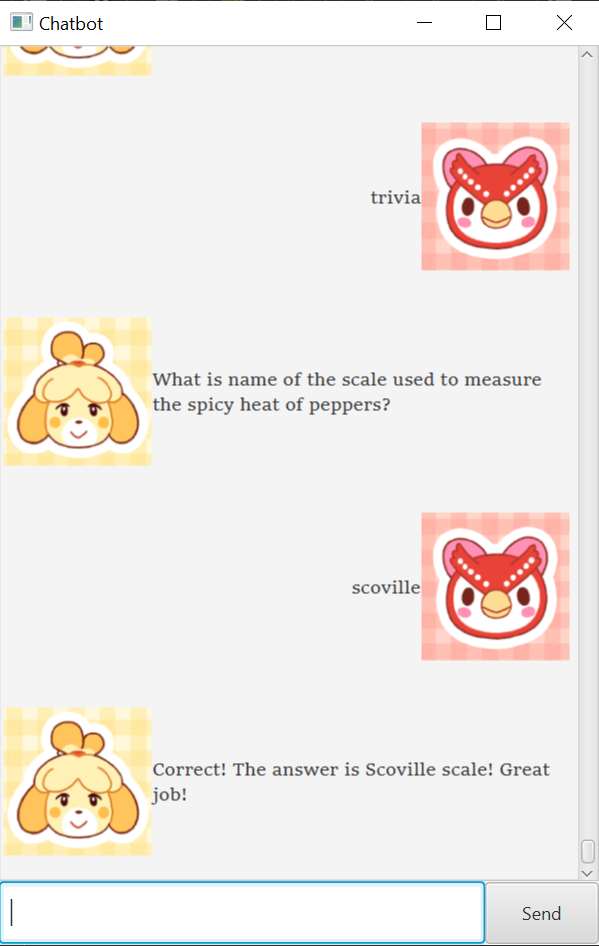
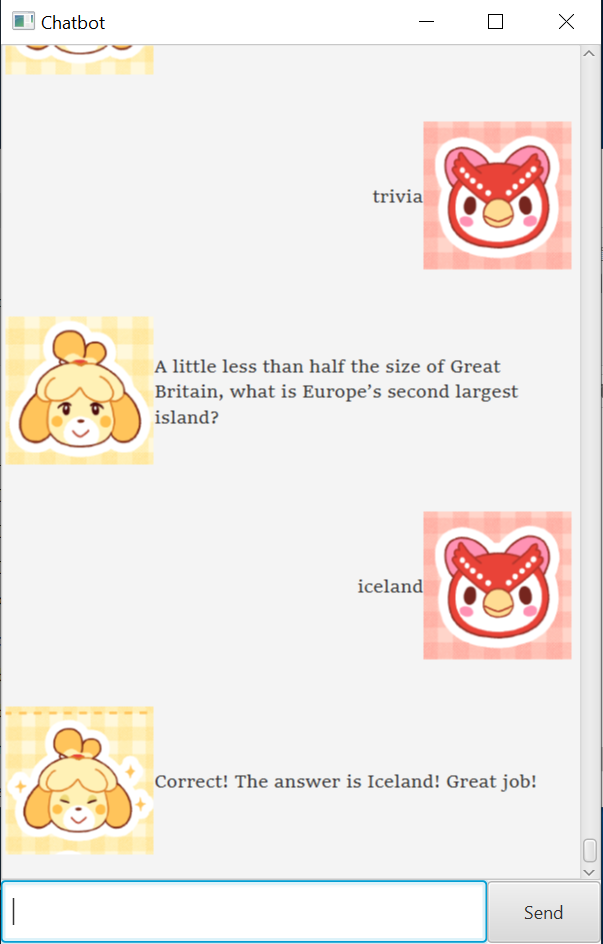
Add expressions

diff --git a/src/main/java/seedu/duke/Ui.java b/src/main/java/seedu/duke/Ui.java
@@ -24,6 +24,7 @@ public class Ui {
 
     /**
      * Prints the intro when starting the application.
+     * @return
      */
     public static String intro() {
         String logo = "Hello! \nIs there something I can help you with today?";
@@ -50,8 +51,9 @@ public class Ui {
      * Prints error message.
      * @param str String containing error message.
      */
-    public static void showError(String str) {
-        System.out.println(format(str));
+    public static ChatDisplay showError(String str) {
+        ChatDisplay result = new ChatDisplay(str, ChatDisplay.Expression.CONFUSED);
+        return result;
     }
 
     /**
@@ -74,9 +76,10 @@ public class Ui {
      * @param str String representing Task done.
      * @return
      */
-    public static String doneLine(String str) {
+    public static ChatDisplay doneLine(String str) {
         String message = "Nice! I've marked this task as done:\n " + str;
-        return message;
+        ChatDisplay result = new ChatDisplay(message, ChatDisplay.Expression.SINGING);
+        return result;
     }
 
     /**
@@ -85,9 +88,10 @@ public class Ui {
      * @param size integer representing the current size of the TaskList.
      * @return
      */
-    public static String deleteLine(String str, int size) {
-        String result = "Noted. I've removed this task: \n   "
-                + str + "\n Now you have " + size + " tasks in the list.";
+    public static ChatDisplay deleteLine(String str, int size) {
+        String delete = "You've finished! Good job! I'll remove this task for you: \n   "
+                + str + "\nNow you have " + size + " tasks in the list.";
+        ChatDisplay result = new ChatDisplay(delete, ChatDisplay.Expression.SPARKLY);
         return result;
     }
 
@@ -97,19 +101,21 @@ public class Ui {
      * @param size integer representing the current size of the TaskList.
      * @return
      */
-    public static String addLine(String str, int size) {
-        String message = "Got it. I've added this task:\n " + str
+    public static ChatDisplay addLine(String str, int size) {
+        String message = "Alright! I'll add this task for you:\n " + str
                 + "\nNow you have " + size + " tasks in the list.";
-        return message;
+        ChatDisplay result = new ChatDisplay(message, ChatDisplay.Expression.SINGING);
+        return result;
     }
 
     /**
      * Prints exit message.
      * @return
      */
-    public static String exitLine() {
+    public static ChatDisplay exitLine() {
         String message = "Bye. Hope to see you again soon!";
-        return message;
+        ChatDisplay result = new ChatDisplay(message, ChatDisplay.Expression.SINGING);
+        return result;
     }
 
     /**
@@ -117,7 +123,7 @@ public class Ui {
      * @param tl Current TaskList.
      * @return String containing list message.
      */
-    public static String list(TaskList tl) {
+    public static ChatDisplay list(TaskList tl) {
         String message = "";
         if (tl.list.size() != 0) {
             message += "Here are the tasks in your list:\n";
@@ -127,7 +133,8 @@ public class Ui {
         } else {
             message = "You have no tasks in your list.";
         }
-        return message;
+        ChatDisplay result = new ChatDisplay(message, ChatDisplay.Expression.NEUTRAL);
+        return result;
     }
 
     /**
@@ -135,36 +142,45 @@ public class Ui {
      * @param tl taskList
      * @return String containing matching list message.
      */
-    public static String listMatching(ArrayList<Task> tl) {
-        String result = "";
+    public static ChatDisplay listMatching(ArrayList<Task> tl) {
+        String message = "";
         if (tl.size() != 0) {
-            result += "Here are the matching tasks in your list:\n";
+            message += "Here are the matching tasks in your list:\n";
             for (int i = 1; i <= tl.size(); i++) {
-                result += " " + i + ". " + tl.get(i - 1).toString() + "\n";
+                message += " " + i + ". " + tl.get(i - 1).toString() + "\n";
             }
         } else {
-            result = "You have no matching tasks in your list.";
+            message = "You have no matching tasks in your list.";
         }
+        ChatDisplay result = new ChatDisplay(message, ChatDisplay.Expression.NEUTRAL);
         return result;
     }
 
-    public static String editMessage(String original, String newString) {
-        String result = "You have successfully edited the task:\n" + original
+    public static ChatDisplay editMessage(String original, String newString) {
+        String message = "You have successfully edited the task:\n" + original
                 + "\nto:\n" + newString;
+        ChatDisplay result = new ChatDisplay(message, ChatDisplay.Expression.NEUTRAL);
         return result;
     }
 
-    public static String correctAnswer() {
-        String result = "Correct! The answer is " + answer + "! Great job!";
+    public static ChatDisplay correctAnswer() {
+        String message = "Correct! The answer is " + answer + "! Great job!";
+        ChatDisplay result = new ChatDisplay(message, ChatDisplay.Expression.SPARKLY);
         return result;
     }
 
-    public static String wrongAnswer() {
-        String result = "Sorry, the answer is " + answer + ". Better luck next time!";
+    public static ChatDisplay wrongAnswer() {
+        String message = "Sorry, the answer is " + answer + ". Better luck next time!";
+        ChatDisplay result = new ChatDisplay(message, ChatDisplay.Expression.CONCERNED);
         return result;
     }
 
     public static String getAnswer() {
         return answer;
+    }
+
+    public ChatDisplay questionMessage(String question) {
+        ChatDisplay result = new ChatDisplay(question, ChatDisplay.Expression.NEUTRAL);
+        return result;
     }
 }

diff --git a/src/main/java/seedu/duke/MainWindow.java b/src/main/java/seedu/duke/MainWindow.java
@@ -26,42 +26,6 @@ public class MainWindow extends AnchorPane {
     private Image userImage = new Image(this.getClass().getResourceAsStream("/images/DaUser.png"));
     private Image dukeImage = new Image(this.getClass().getResourceAsStream("/images/isabelle_neutral.png"));
 
-    private static String expression;
-
-    public enum Expression {
-        NEUTRAL, CONFUSED, SAD, CONCERNED, SPARKLY, SHOCKED, STRESSED;
-    }
-
-    public static void setExpression(String str) {
-        expression = str;
-    }
-
-    public void setImage(Expression e) {
-        switch (e) {
-            case NEUTRAL:
-                dukeImage = new Image(this.getClass().getResourceAsStream("/images/isabelle_neutral.png"));
-                break;
-            case SAD:
-                dukeImage = new Image(this.getClass().getResourceAsStream("/images/isabelle_sad.png"));
-                break;
-            case SHOCKED:
-                dukeImage = new Image(this.getClass().getResourceAsStream("/images/isabelle_shocked.png"));
-                break;
-            case SPARKLY:
-                dukeImage = new Image(this.getClass().getResourceAsStream("/images/isabelle_sparkly.png"));
-                break;
-            case CONFUSED:
-                dukeImage = new Image(this.getClass().getResourceAsStream("/images/isabelle_confused.png"));
-                break;
-            case STRESSED:
-                dukeImage = new Image(this.getClass().getResourceAsStream("/images/isabelle_stressed.png"));
-                break;
-            case CONCERNED:
-                dukeImage = new Image(this.getClass().getResourceAsStream("/images/isabelle_concerned.png"));
-                break;
-        }
-    }
-
     @FXML
     public void initialize() {
         scrollPane.vvalueProperty().bind(dialogContainer.heightProperty());
@@ -81,7 +45,9 @@ public class MainWindow extends AnchorPane {
     @FXML
     private void handleUserInput() {
         String input = userInput.getText();
-        String response = duke.getResponse(input);
+        ChatDisplay chat = duke.getResponse(input);
+        String response = chat.getText();
+        Image dukeImage = chat.getDisplayPicture();
         dialogContainer.getChildren().addAll(
                 DialogBox.getUserDialog(input, userImage),
                 DialogBox.getDukeDialog(response, dukeImage)

diff --git a/src/main/java/seedu/duke/ChatDisplay.java b/src/main/java/seedu/duke/ChatDisplay.java
@@ -1,0 +1,62 @@
+package seedu.duke;
+
+import javafx.scene.image.Image;
+
+/**
+ * Class combining chat text and display picture as an object.
+ */
+public class ChatDisplay {
+    private static Image displayPicture;
+    private static String text;
+
+    public ChatDisplay(String str, Expression e) {
+        text = str;
+        displayPicture = retrieveExpression(e);
+    }
+
+    public Image getDisplayPicture() {
+        return displayPicture;
+    }
+
+    public String getText() {
+        return text;
+    }
+
+    public enum Expression {
+        NEUTRAL, CONFUSED, SAD, CONCERNED, SPARKLY, SHOCKED, STRESSED, SINGING;
+    }
+
+    public Image retrieveExpression(Expression e) {
+        Image result;
+        switch (e) {
+            case NEUTRAL:
+                result = new Image(this.getClass().getResourceAsStream("/images/isabelle_neutral.png"));
+                break;
+            case SAD:
+                result = new Image(this.getClass().getResourceAsStream("/images/isabelle_sad.png"));
+                break;
+            case SHOCKED:
+                result = new Image(this.getClass().getResourceAsStream("/images/isabelle_shocked.png"));
+                break;
+            case SPARKLY:
+                result = new Image(this.getClass().getResourceAsStream("/images/isabelle_sparkly.png"));
+                break;
+            case CONFUSED:
+                result = new Image(this.getClass().getResourceAsStream("/images/isabelle_confused.png"));
+                break;
+            case STRESSED:
+                result = new Image(this.getClass().getResourceAsStream("/images/isabelle_stressed.png"));
+                break;
+            case CONCERNED:
+                result = new Image(this.getClass().getResourceAsStream("/images/isabelle_concerned.png"));
+                break;
+            case SINGING:
+                result = new Image(this.getClass().getResourceAsStream("/images/isabelle_singing.png"));
+                break;
+            default:
+                result = new Image(this.getClass().getResourceAsStream("/images/isabelle_neutral.png"));
+                break;
+        }
+        return result;
+    }
+}

diff --git a/src/main/java/seedu/duke/Duke.java b/src/main/java/seedu/duke/Duke.java
@@ -26,7 +26,6 @@ public class Duke extends Application {
     private Scene scene;
 
     private Image user = new Image(this.getClass().getResourceAsStream("/images/DaUser.png"));
-    private Image duke = new Image(this.getClass().getResourceAsStream("/images/isabelle_neutral.png"));
 
     private static Storage storage;
     private static TaskList tasks;
@@ -161,21 +160,23 @@ public class Duke extends Application {
      */
     private void handleUserInput() {
         String userText = userInput.getText();
-        String dukeText = getResponse(userInput.getText());
+        ChatDisplay response = getResponse(userInput.getText());
+        String dukeText = response.getText();
+        Image dukeImage = response.getDisplayPicture();
         dialogContainer.getChildren().addAll(
                 DialogBox.getUserDialog(userText, user),
-                DialogBox.getDukeDialog(dukeText, duke)
+                DialogBox.getDukeDialog(dukeText, dukeImage)
         );
         userInput.clear();
     }
 
-    String getResponse(String input) {
+    ChatDisplay getResponse(String input) {
         try {
             Command c = Parser.parse(input);
             isExit = c.isExit();
             return c.execute(tasks, ui, storage);
         } catch (DukeException e) {
-            return e.getMessage();
+            return ui.showError(e.getMessage());
         }
     }
 }

diff --git a/src/main/java/seedu/duke/Parser.java b/src/main/java/seedu/duke/Parser.java
@@ -72,13 +72,13 @@ public class Parser {
                 throw new DukeException("Please specify a task.");
             } else if (!first.equals("bye") && !first.equals("list") && !first.equals("trivia") && !isTriviaAnswer) {
                 //if it is not a single-worded valid input
-                throw new DukeException("I'm sorry, but I don't know what that means :-(");
+                throw new DukeException("I'm sorry, but I don't know what that means.");
             }
         } else {
             //if it is an invalid input containing multiple words
             if (!task && !first.equals("done") && !first.equals("delete") && !first.equals("find")
                     && !first.equals("edit") && !isTriviaAnswer) {
-                throw new DukeException("I'm sorry, but I don't know what that means :-(");
+                throw new DukeException("I'm sorry, but I don't know what that means.");
             } else if ((first.equals("event") && !input.contains("/at"))
                     || (first.equals("deadline") && !input.contains("/by"))) {
                 //if event or deadline do not have details

diff --git a/src/main/java/seedu/duke/TriviaCommand.java b/src/main/java/seedu/duke/TriviaCommand.java
@@ -11,7 +11,7 @@ public class TriviaCommand extends Command {
     protected static String url = "https://trivia.fyi/random-trivia-questions/";
 
     @Override
-    public String execute(TaskList t, Ui u, Storage s) {
+    public ChatDisplay execute(TaskList t, Ui u, Storage s) {
         String result = "";
         try {
             Document doc = Jsoup.connect(url).timeout(0).get();
@@ -33,6 +33,6 @@ public class TriviaCommand extends Command {
             e.printStackTrace();
         }
 
-        return result;
+        return u.questionMessage(result);
     }
 }

diff --git a/src/main/java/seedu/duke/AnswerCommand.java b/src/main/java/seedu/duke/AnswerCommand.java
@@ -8,7 +8,7 @@ public class AnswerCommand extends Command {
     }
 
     @Override
-    public String execute(TaskList t, Ui u, Storage s) {
+    public ChatDisplay execute(TaskList t, Ui u, Storage s) {
         String correctAnswer = u.getAnswer();
         if ((answer.toLowerCase().equals(correctAnswer.toLowerCase()) || answer.toLowerCase().contains(correctAnswer.toLowerCase())
             || correctAnswer.toLowerCase().contains(answer.toLowerCase())) && !answer.equals("")) {

diff --git a/src/main/java/seedu/duke/FindCommand.java b/src/main/java/seedu/duke/FindCommand.java
@@ -19,7 +19,7 @@ public class FindCommand extends Command {
      * @return a String containing the find message.
      */
     @Override
-    public String execute(TaskList t, Ui u, Storage s) {
+    public ChatDisplay execute(TaskList t, Ui u, Storage s) {
         ArrayList<Task> list = new ArrayList<>();
         for (Task task: t.list) {
             String title = task.description;

diff --git a/src/main/java/seedu/duke/AddCommand.java b/src/main/java/seedu/duke/AddCommand.java
@@ -30,7 +30,7 @@ public class AddCommand extends Command {
      * @return a String representing the add message
      */
     @Override
-    public String execute(TaskList t, Ui u, Storage s) {
+    public ChatDisplay execute(TaskList t, Ui u, Storage s) {
         Task task = createNewTask();
         int size = t.list.size();
         t.list.add(task);

diff --git a/src/main/java/seedu/duke/DeleteCommand.java b/src/main/java/seedu/duke/DeleteCommand.java
@@ -23,7 +23,7 @@ public class DeleteCommand extends Command {
      * @return a String containing the delete message.
      */
     @Override
-    public String execute(TaskList t, Ui u, Storage s) {
+    public ChatDisplay execute(TaskList t, Ui u, Storage s) {
         Task task = t.list.get(delete);
         t.list.remove(delete);
         try {

diff --git a/src/main/java/seedu/duke/EditCommand.java b/src/main/java/seedu/duke/EditCommand.java
@@ -18,7 +18,7 @@ public class EditCommand extends Command {
     }
 
     @Override
-    public String execute(TaskList t, Ui u, Storage s) {
+    public ChatDisplay execute(TaskList t, Ui u, Storage s) {
         Task tobeEdited = t.list.get(position);
         String type = tobeEdited.getType();
         String original = tobeEdited.toString();

diff --git a/src/main/java/seedu/duke/DoneCommand.java b/src/main/java/seedu/duke/DoneCommand.java
@@ -23,7 +23,7 @@ public class DoneCommand extends Command {
      * @return a String containing the Done message.
      */
     @Override
-    public String execute(TaskList t, Ui u, Storage s) {
+    public ChatDisplay execute(TaskList t, Ui u, Storage s) {
         Task task = t.list.get(done);
         task.done();
         try {
